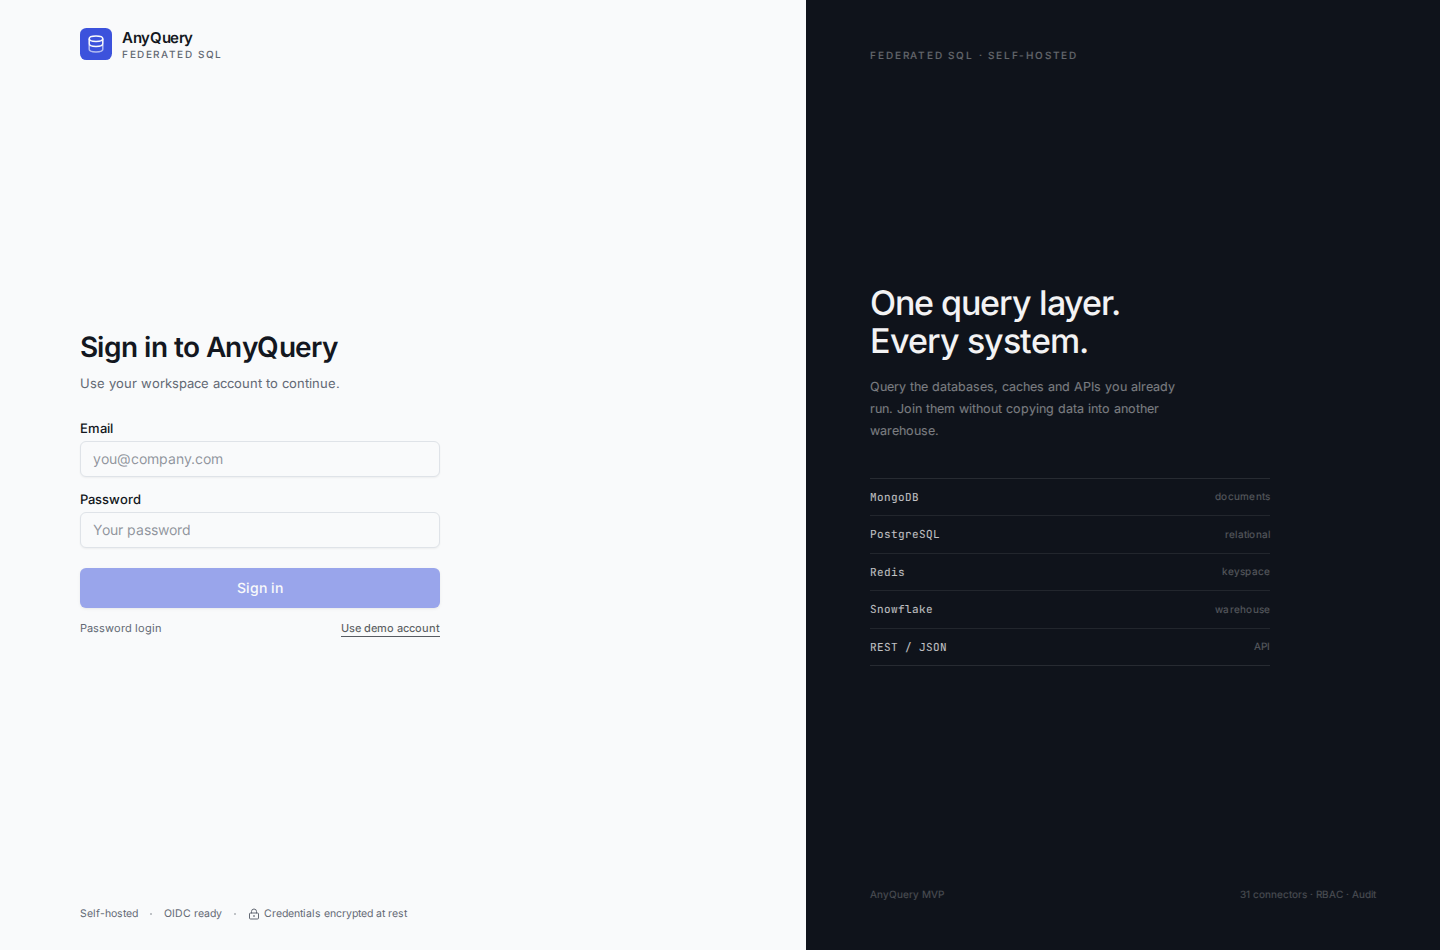
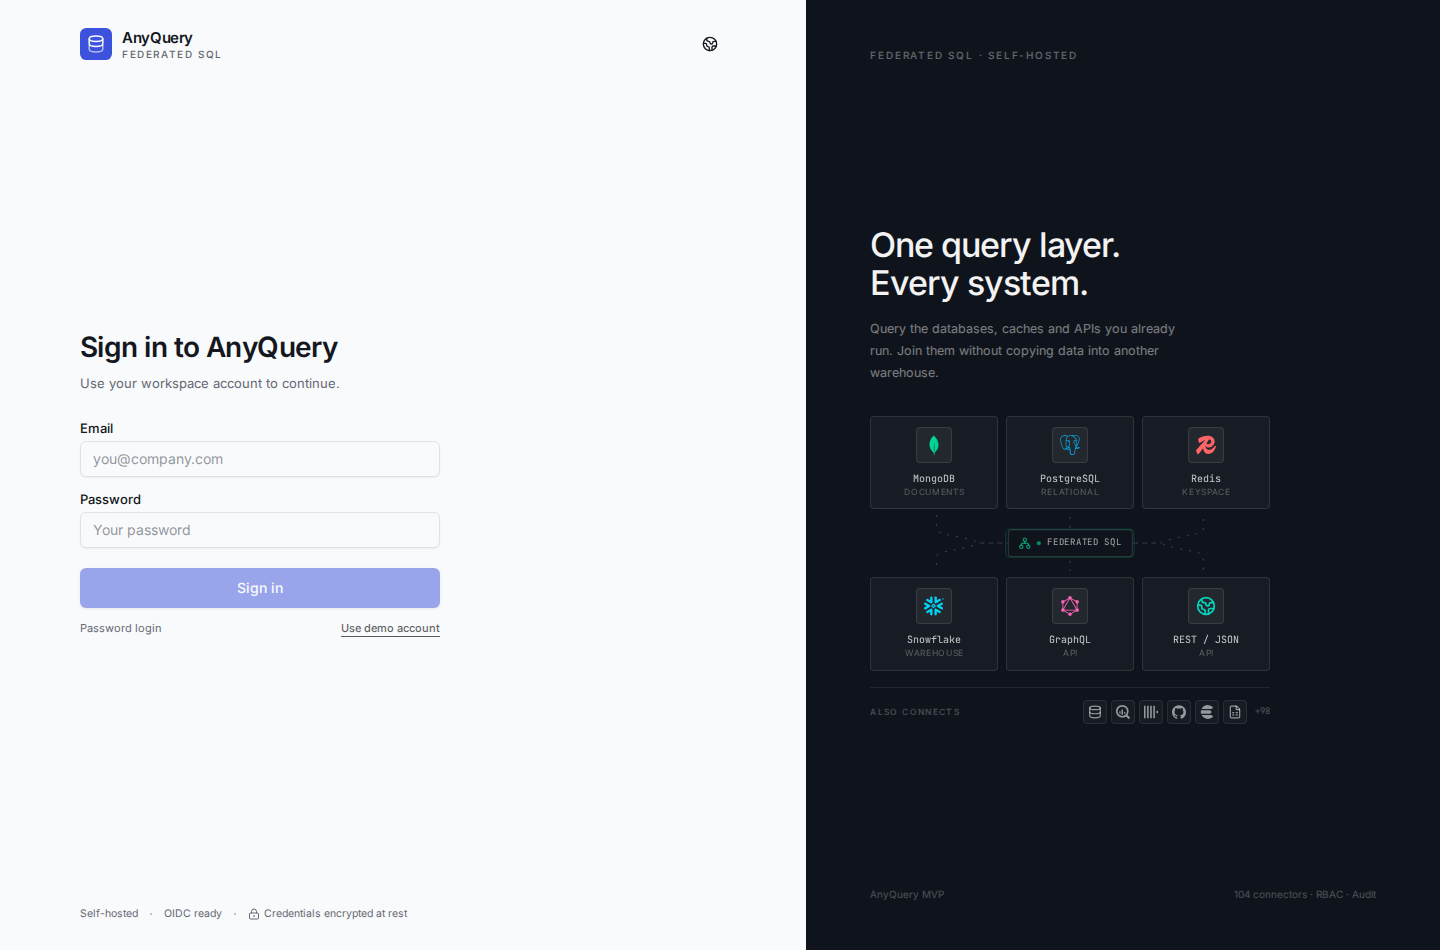
feat(login): add data source topology with subtle motion
- Replace the plain source list with branded data source nodes and connections
- Add compact icon strip for additional connectors and mobile
- Add staggered entrance, flowing links, hub pulse and hover lift
- Respect prefers-reduced-motion and refresh the login screenshot

diff --git a/frontend/src/pages/Login.tsx b/frontend/src/pages/Login.tsx
@@ -1,23 +1,47 @@
 import { useEffect, useState } from "react"
 import { useNavigate, useSearchParams } from "react-router-dom"
-import { Loader2, LockKeyhole, ShieldCheck } from "lucide-react"
+import { Loader2, LockKeyhole, Network, ShieldCheck } from "lucide-react"
 import { api } from "@/lib/api"
 import { useAuth } from "@/providers/auth"
 import { Button } from "@/components/ui/button"
 import { Input } from "@/components/ui/input"
 import { Label } from "@/components/ui/label"
 import { Logo } from "@/components/layout/Logo"
+import { SourceIcon } from "@/components/SourceIcon"
 import { ErrorNotice } from "@/components/shared"
 import { LanguageMenu } from "@/components/layout/LanguageMenu"
 import { useI18n } from "@/i18n"
 
-const sourceRows = [
-  ["MongoDB", "documents"],
-  ["PostgreSQL", "relational"],
-  ["Redis", "keyspace"],
-  ["Snowflake", "warehouse"],
-  ["REST / JSON", "API"],
+const topologySources = [
+  { type: "mongodb", name: "MongoDB", kind: "documents", color: "text-emerald-400" },
+  { type: "postgres", name: "PostgreSQL", kind: "relational", color: "text-sky-400" },
+  { type: "redis", name: "Redis", kind: "keyspace", color: "text-red-400" },
+  { type: "snowflake", name: "Snowflake", kind: "warehouse", color: "text-cyan-400" },
+  { type: "graphql", name: "GraphQL", kind: "API", color: "text-pink-400" },
+  { type: "rest", name: "REST / JSON", kind: "API", color: "text-teal-400" },
 ]
+
+const moreSources = ["sqlite", "bigquery", "clickhouse", "github", "elasticsearch", "csv"]
+
+function SourceNode({ type, name, kind, color, index = 0 }: { type: string; name: string; kind: string; color: string; index?: number }) {
+  return (
+    <div
+      className="aq-login-node group flex min-w-0 flex-col items-center gap-2 rounded-md border border-white/10 bg-white/[0.035] px-1.5 py-2.5 text-center transition-colors hover:border-white/15 hover:bg-white/[0.055]"
+      style={{ animationDelay: `${80 + index * 55}ms` }}
+    >
+      <SourceIcon
+        type={type}
+        size="lg"
+        className="size-9 rounded-md border border-white/10 bg-white/[0.055] transition-transform duration-300 group-hover:-translate-y-0.5"
+        glyphClassName={color}
+      />
+      <div className="min-w-0">
+        <div className="truncate font-mono text-[10px] text-white/75">{name}</div>
+        <div className="truncate text-[8.5px] tracking-[0.08em] text-white/28 uppercase">{kind}</div>
+      </div>
+    </div>
+  )
+}
 
 export function LoginPage() {
   const { t } = useI18n()
@@ -182,6 +206,20 @@ export function LoginPage() {
                 />
               </div>
             )}
+
+            <div className="mt-9 flex items-center gap-1.5 lg:hidden">
+              {topologySources.map((source) => (
+                <SourceIcon
+                  key={source.type}
+                  type={source.type}
+                  size="sm"
+                  className="size-7"
+                  glyphClassName={source.color}
+                  title={source.name}
+                />
+              ))}
+              <span className="ml-1 text-[10px] text-muted-foreground">104 data sources</span>
+            </div>
           </div>
         </div>
 
@@ -205,19 +243,56 @@ export function LoginPage() {
             {t("Query the databases, caches and APIs you already run. Join them without copying data into another warehouse.")}
           </p>
 
-          <div className="mt-9 border-y border-white/10">
-            {sourceRows.map(([name, kind]) => (
-              <div key={name} className="flex items-center justify-between border-b border-white/8 py-2.5 last:border-b-0">
-                <span className="font-mono text-[11px] text-white/75">{name}</span>
-                <span className="text-[10px] tracking-wide text-white/30">{kind}</span>
+          <div className="mt-8">
+            <div className="grid grid-cols-3 gap-2">
+              {topologySources.slice(0, 3).map((source, index) => <SourceNode key={source.type} {...source} index={index} />)}
+            </div>
+
+            <div className="relative my-1.5 h-14">
+              <svg className="absolute inset-0 size-full" viewBox="0 0 300 56" fill="none" preserveAspectRatio="none" aria-hidden>
+                <path className="aq-login-flow" d="M50 0V14C50 21 70 20 82 28H134" stroke="currentColor" strokeOpacity=".22" vectorEffect="non-scaling-stroke" />
+                <path className="aq-login-flow" d="M150 0V18" stroke="currentColor" strokeOpacity=".22" vectorEffect="non-scaling-stroke" style={{ animationDelay: "-0.45s" }} />
+                <path className="aq-login-flow" d="M250 0V14C250 21 230 20 218 28H166" stroke="currentColor" strokeOpacity=".22" vectorEffect="non-scaling-stroke" style={{ animationDelay: "-0.9s" }} />
+                <path className="aq-login-flow" d="M50 56V42C50 35 70 36 82 28H134" stroke="currentColor" strokeOpacity=".22" vectorEffect="non-scaling-stroke" style={{ animationDelay: "-1.35s" }} />
+                <path className="aq-login-flow" d="M150 56V38" stroke="currentColor" strokeOpacity=".22" vectorEffect="non-scaling-stroke" style={{ animationDelay: "-1.8s" }} />
+                <path className="aq-login-flow" d="M250 56V42C250 35 230 36 218 28H166" stroke="currentColor" strokeOpacity=".22" vectorEffect="non-scaling-stroke" style={{ animationDelay: "-2.25s" }} />
+              </svg>
+              <div className="absolute top-1/2 left-1/2 -translate-x-1/2 -translate-y-1/2">
+                <div className="relative flex items-center gap-1.5 rounded-md border border-white/15 bg-[oklch(0.185_0.018_265)] px-2.5 py-1.5 font-mono text-[9px] tracking-[0.08em] text-white/60 shadow-sm">
+                  <span className="aq-login-hub-pulse pointer-events-none absolute -inset-px rounded-md border border-emerald-400/50" />
+                  <Network className="size-3 text-emerald-400/80" />
+                  <span className="aq-login-dot size-1 rounded-full bg-emerald-400" />
+                  FEDERATED SQL
+                </div>
               </div>
-            ))}
+            </div>
+
+            <div className="grid grid-cols-3 gap-2">
+              {topologySources.slice(3).map((source, index) => <SourceNode key={source.type} {...source} index={index + 3} />)}
+            </div>
+
+            <div className="mt-4 flex items-center justify-between border-t border-white/8 pt-3">
+              <span className="text-[8.5px] font-medium tracking-[0.16em] text-white/25 uppercase">Also connects</span>
+              <div className="flex items-center gap-1">
+                {moreSources.map((type, index) => (
+                  <SourceIcon
+                    key={type}
+                    type={type}
+                    size="sm"
+                    className="size-6 rounded border border-white/8 bg-white/[0.035]"
+                    glyphClassName="text-white/55"
+                    title={type}
+                  />
+                ))}
+                <span className="ml-1 font-mono text-[9px] text-white/25">+98</span>
+              </div>
+            </div>
           </div>
         </div>
 
         <div className="flex items-center justify-between text-[10px] text-white/25">
           <span>AnyQuery MVP</span>
-          <span>31 connectors · RBAC · Audit</span>
+          <span>104 connectors · RBAC · Audit</span>
         </div>
       </aside>
     </div>

diff --git a/frontend/src/components/SourceIcon.tsx b/frontend/src/components/SourceIcon.tsx
@@ -164,10 +164,25 @@ function BrandGlyph({ meta, className }: { meta: SourceIconMeta; className: stri
   return <Icon className={className} />
 }
 
-export function SourceIcon({ type, icon, className, size = "md" }: { type: string; icon?: string; className?: string; size?: "sm" | "md" | "lg" }) {
+export function SourceIcon({
+  type,
+  icon,
+  className,
+  glyphClassName,
+  size = "md",
+  title,
+}: {
+  type: string
+  icon?: string
+  className?: string
+  glyphClassName?: string
+  size?: "sm" | "md" | "lg"
+  title?: string
+}) {
   const meta = sourceMeta(type, icon)
   return (
     <div
+      title={title}
       className={cn(
         "grid shrink-0 place-items-center rounded-lg border border-transparent",
         meta.bg,
@@ -177,7 +192,7 @@ export function SourceIcon({ type, icon, className, size = "md" }: { type: strin
         className,
       )}
     >
-      <BrandGlyph meta={meta} className={cn(meta.color, size === "sm" ? "size-3.5" : size === "md" ? "size-4" : "size-5")} />
+      <BrandGlyph meta={meta} className={cn(meta.color, size === "sm" ? "size-3.5" : size === "md" ? "size-4" : "size-5", glyphClassName)} />
     </div>
   )
 }

diff --git a/frontend/src/index.css b/frontend/src/index.css
@@ -229,3 +229,41 @@
   background: var(--accent) !important;
   color: var(--accent-foreground) !important;
 }
+
+/* Login page topology: subtle entrance and data-flow motion. */
+@keyframes aq-login-node-in {
+  from { opacity: 0; transform: translateY(5px); }
+  to { opacity: 1; transform: translateY(0); }
+}
+@keyframes aq-login-flow {
+  to { stroke-dashoffset: -18; }
+}
+@keyframes aq-login-hub-pulse {
+  0%, 100% { opacity: 0.18; transform: scale(1); }
+  50% { opacity: 0.5; transform: scale(1.045); }
+}
+@keyframes aq-login-dot {
+  0%, 100% { opacity: 0.45; }
+  50% { opacity: 1; }
+}
+.aq-login-node {
+  animation: aq-login-node-in 520ms cubic-bezier(0.22, 1, 0.36, 1) both;
+}
+.aq-login-flow {
+  stroke-dasharray: 2 7;
+  animation: aq-login-flow 3.8s linear infinite;
+}
+.aq-login-hub-pulse {
+  animation: aq-login-hub-pulse 3.2s ease-in-out infinite;
+}
+.aq-login-dot {
+  animation: aq-login-dot 2.4s ease-in-out infinite;
+}
+@media (prefers-reduced-motion: reduce) {
+  .aq-login-node,
+  .aq-login-flow,
+  .aq-login-hub-pulse,
+  .aq-login-dot {
+    animation: none !important;
+  }
+}
